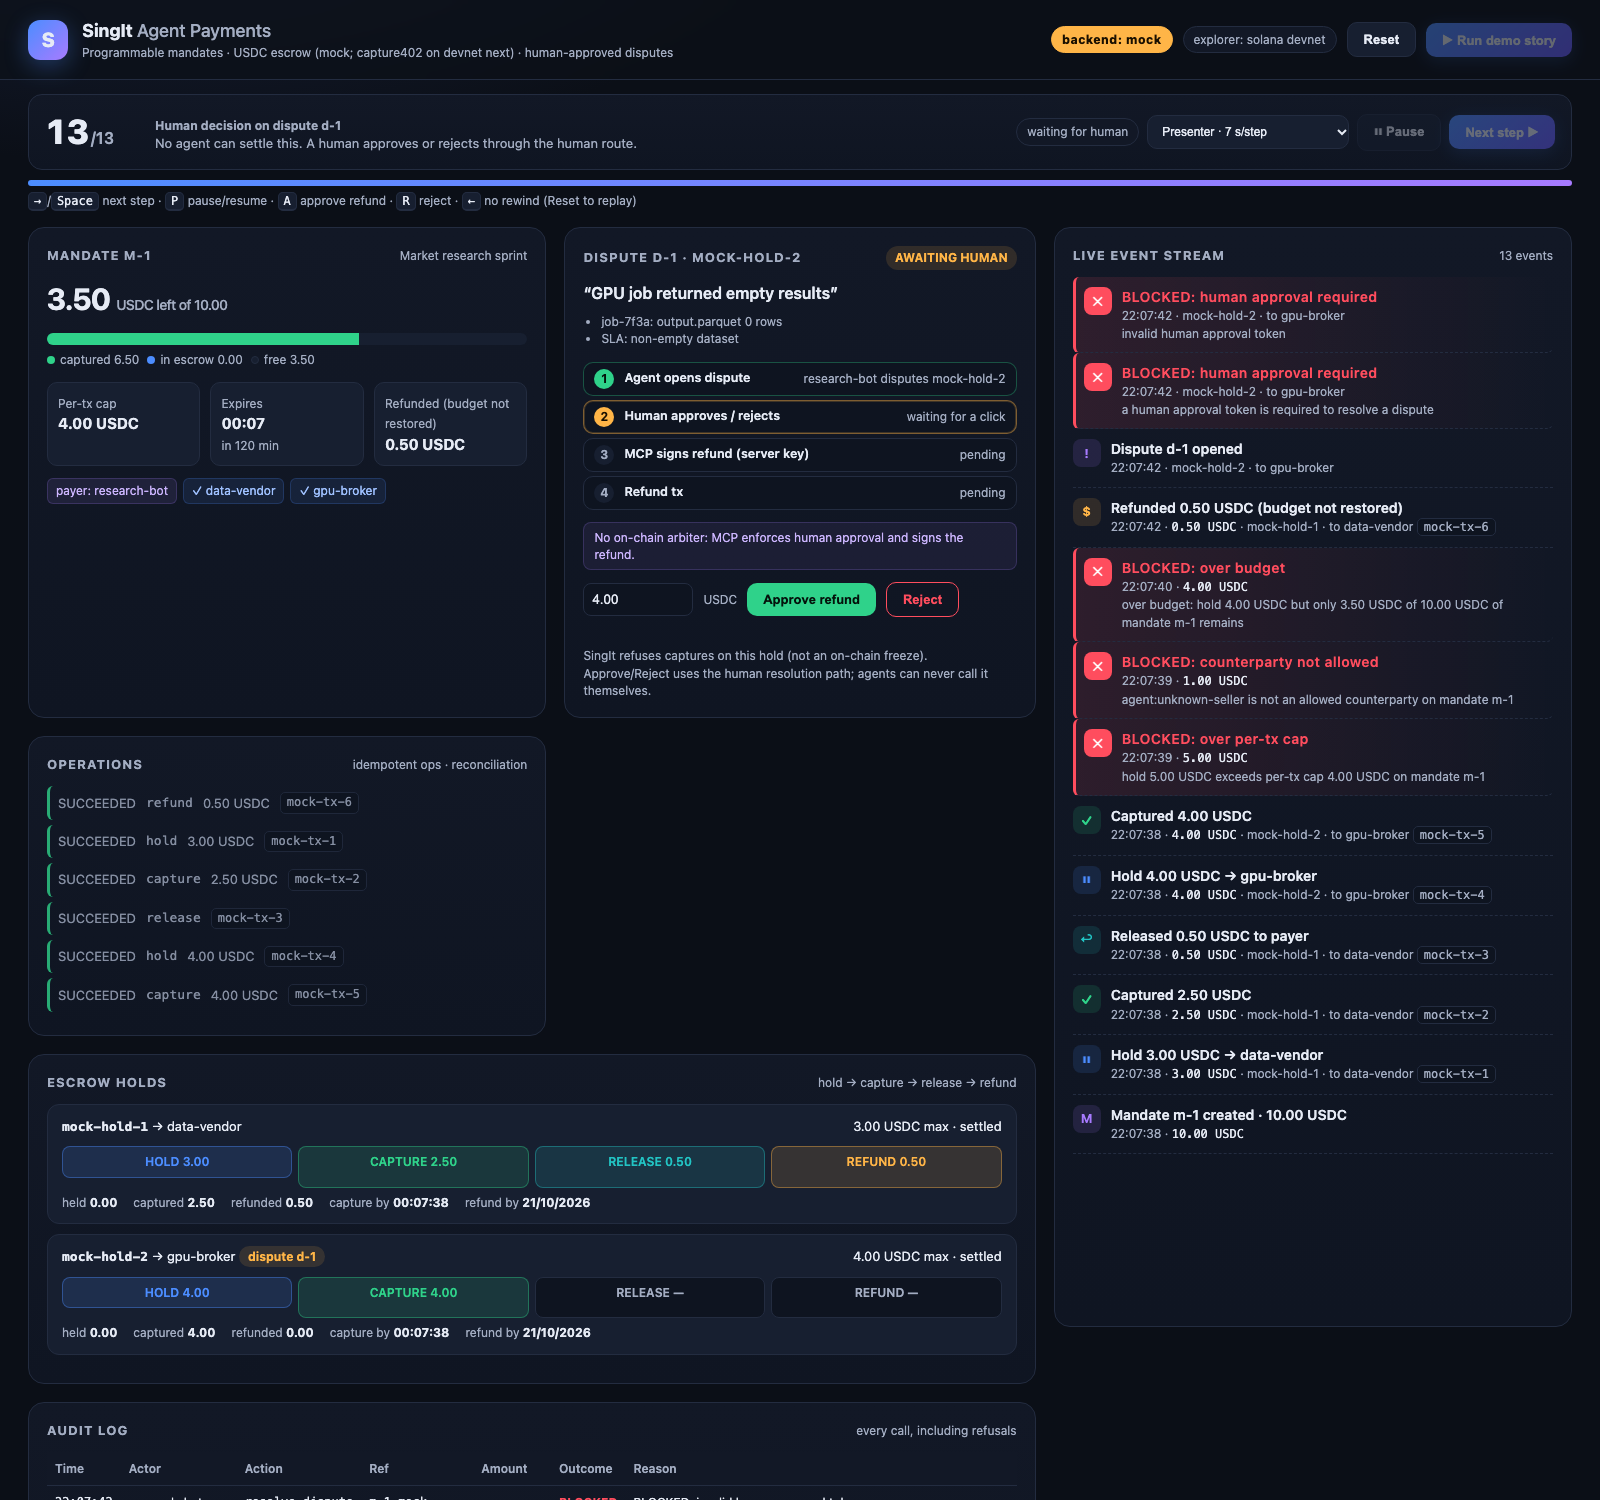
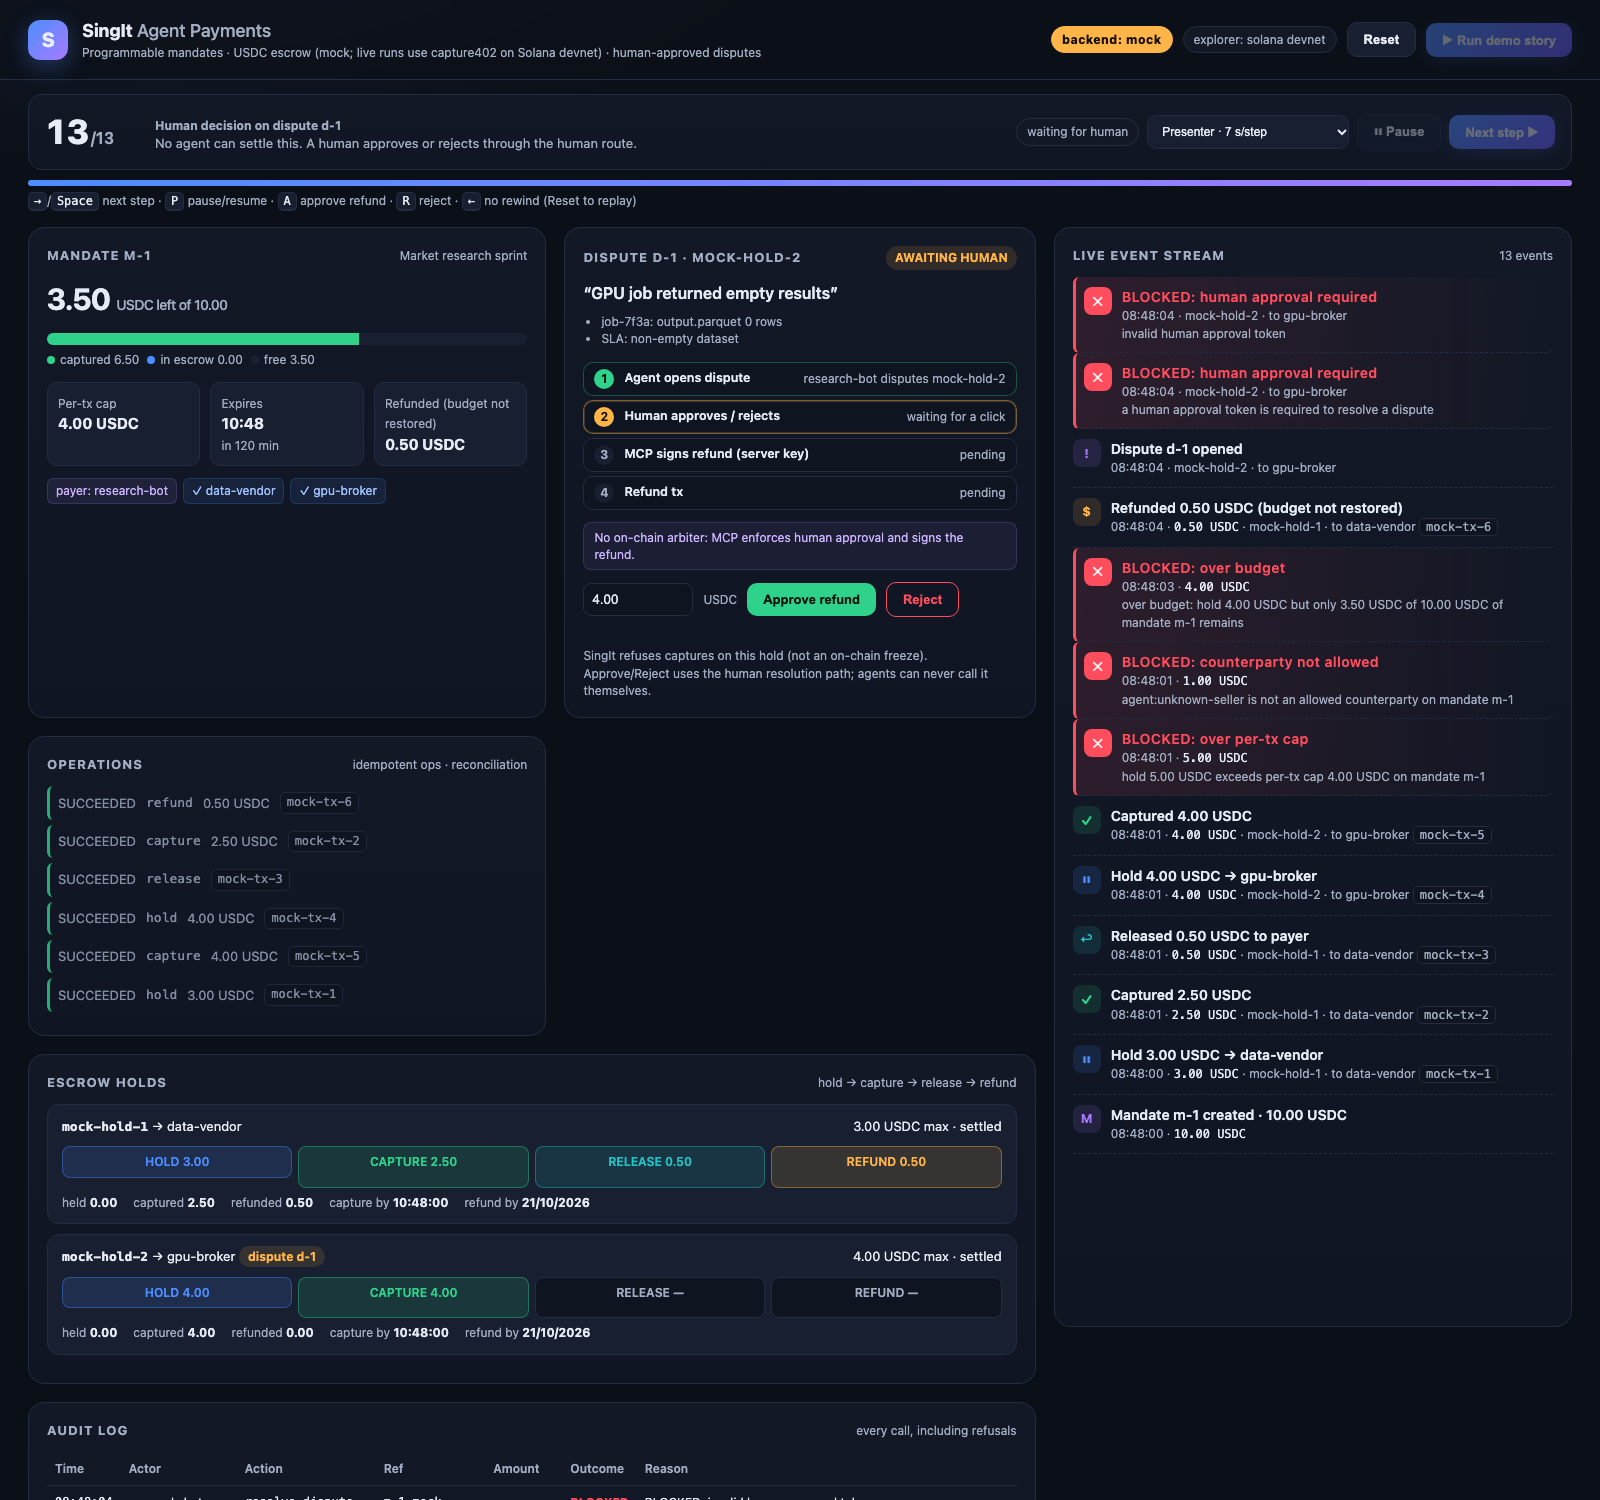
docs: align with hackathon rules (track, AI disclosure, responsible AI, pitch format)
README names the official track and challenge, adds the AI-assistance
disclosure the rules require and a Responsible AI and compliance section
(15% of judging). RUNBOOK event checklist uses the real format: repo link
before 13:30, 3 min pitch+demo and 2 min Q&A. The dashboard header no longer
says capture402 on devnet is 'next'; screenshots regenerated.

diff --git a/demo-dashboard/public/app.js b/demo-dashboard/public/app.js
@@ -138,7 +138,7 @@ async function refresh() {
   const startBlocker = storyStartBlocker(s);
   // Header badge shows chain state; its tooltip identifies the selected backend mode.
   const b = $("backend"); b.textContent = `backend: ${s.chain}`; b.className = `pill ${s.chain}`;
-  $("subtitle").textContent = s.chain === "unavailable" ? s.storyBlocker : `Programmable mandates · ${s.chain === "mock" ? "USDC escrow (mock; capture402 on devnet next)" : "USDC escrow on Solana devnet (capture402)"} · human-approved disputes`;
+  $("subtitle").textContent = s.chain === "unavailable" ? s.storyBlocker : `Programmable mandates · ${s.chain === "mock" ? "USDC escrow (mock; live runs use capture402 on Solana devnet)" : "USDC escrow on Solana devnet (capture402)"} · human-approved disputes`;
   const mode = s.backend === "mcp-http" ? "mcp-http" : s.backend === "local" ? "local" : "in-process";
   b.title = `${mode} — ${s.backendNote}${s.chain === "mock" ? " — tx refs are mock receipts" : s.chain === "devnet" ? " — real Solana devnet signatures" : ""}`;
   $("cluster").textContent = "explorer: solana devnet";

diff --git a/demo-dashboard/public/index.html b/demo-dashboard/public/index.html
@@ -11,7 +11,7 @@
     <div class="brand">
       <div class="logo">S</div>
       <div><div class="title">SingIt <span>Agent Payments</span></div>
-        <div id="subtitle" class="sub">Programmable mandates · USDC escrow (mock; capture402 on devnet next) · human-approved disputes</div></div>
+        <div id="subtitle" class="sub">Programmable mandates · USDC escrow (mock; live runs use capture402 on Solana devnet) · human-approved disputes</div></div>
     </div>
     <div class="actions">
       <span id="backend" class="pill"></span>

diff --git a/README.md b/README.md
@@ -2,7 +2,7 @@
 
 **Agents that pay each other, under human-set limits.** SingIt Agent Pay is an MCP server that lets AI agents pay each other in USDC through escrow. A human sets the mandate (budget, per-transaction cap, allowed payees, expiry). The buyer agent locks funds; the seller agent captures what the work actually cost; the rest goes back. Only a human can settle a dispute, and every action, including every refused one, lands in an audit log.
 
-Built at FinTechers Prague, Track 2 "Agents that pay each other", 19–20 October 2026. Escrow runs on [capture402](https://github.com/starPaw/capture402-solana) on Solana devnet, with a mock backend for local demos.
+Built at The FinTechers Hackathon, Prague, 19–20 October 2026: Track 2 "Stablecoins and new financial infrastructure", challenge "Agents that pay each other". Escrow runs on [capture402](https://github.com/starPaw/capture402-solana) on Solana devnet, with a mock backend for local demos.
 
 ![Demo dashboard: mandate, escrow holds, a dispute waiting for a human, and the live event stream with blocked attempts](demo-dashboard/screenshots/03-dispute-pending.png)
 
@@ -64,6 +64,14 @@ Payments fail in messy ways: lost responses, timeouts, crashes between "sent" an
 - **One runtime per set of wallets.** A second server with the same program, payer and merchant refuses to start, even with another state directory.
 
 Details: [docs/INTERFACE.md](docs/INTERFACE.md) ("Live safety policy", "Operation journal").
+
+## Responsible AI and compliance
+
+- **The model never holds money or sets limits.** LLM agents only call tools. Keys stay in the server process; budgets, caps, payees and deadlines are enforced by deterministic code before any transaction is built, and the escrow program enforces the hold maximum and deadlines on-chain.
+- **Human authority stays human.** Only a human issues mandates and decides disputes, through a separate route and an HMAC token bound to the exact decision. A prompt is never an authorization boundary: each agent's role comes from its own token.
+- **Explainable by construction.** Every call and every refusal is audited with the actor, a stable code and a reason. Each payment can be traced by its `operationId`.
+- **Data handling.** Demo data is synthetic and money is devnet test USDC; no personal data is processed. Signed transactions, journals and model traces stay private; public state and `get_operation` redact them.
+- **Honest scope.** Experimental devnet software, not audited. Moving real funds would need regulatory review (for example MiCA for e-money tokens such as USDC in the EU) and an independent security audit.
 
 ## Quickstart (mock, no keys)
 
@@ -175,6 +183,10 @@ Everything in this repository was written during the event. The first commit is 
 
 - **SingIt:** [singitai.app](https://singitai.app), [github.com/bubon-ik/SingItAI](https://github.com/bubon-ik/SingItAI). The team's existing product and x402 API; not part of this repository.
 - **capture402 escrow:** [starPaw/capture402-solana](https://github.com/starPaw/capture402-solana), the Solana auth/capture escrow program the devnet backend targets. First published 19 October 2026, 10:46 CEST, before the 12:00 kickoff. Not part of this repository.
+
+## AI assistance
+
+Disclosed as the hackathon rules ask: the team built this with AI coding assistants. Claude Code (Anthropic) and OpenAI Codex wrote and reviewed much of the code, tests and docs under the team's direction. In the accepted devnet run the buyer agent itself was the Codex CLI. Merges, the live run and funding were authorized by the team.
 
 ## License
 

diff --git a/docs/RUNBOOK.md b/docs/RUNBOOK.md
@@ -136,8 +136,9 @@ Keys, RPC URLs with credentials, signed wires, journals, live receipts and walle
 
 ## 10. Event checklist (20 October 2026, 13:30 Europe/Prague)
 
-- [ ] Re-confirm the track, timing and submission rules on https://thefintechers.com/hackathon.
+- [x] Re-confirm the track, timing and submission rules on https://thefintechers.com/hackathon (checked 20 October, 08:50).
 - [ ] Freeze the SHA; re-run the offline gate on it; update RELEASE-GATE.md.
 - [ ] Give the jury repository access and setup instructions (README → `npm run demo:all` for the mock demo).
 - [ ] Declare honestly what existed before the event and what was built during it.
-- [ ] Demo plan: 4 minutes plus 3 minutes Q&A. Without a live GO, run the mock demo labeled MOCK; historical devnet results are labeled HISTORICAL. A video is not proof of a live run.
+- [ ] Submit the repository link before the 13:30 code freeze. No video or one-pager is required.
+- [ ] Pitch: 3 minutes of pitch and demo plus 2 minutes of jury Q&A, on-site presenters only. Open with one line on what existed before, then show what was built. Run the dashboard on mock labeled MOCK and present the accepted devnet run as recorded; another live run needs its own authorization.
